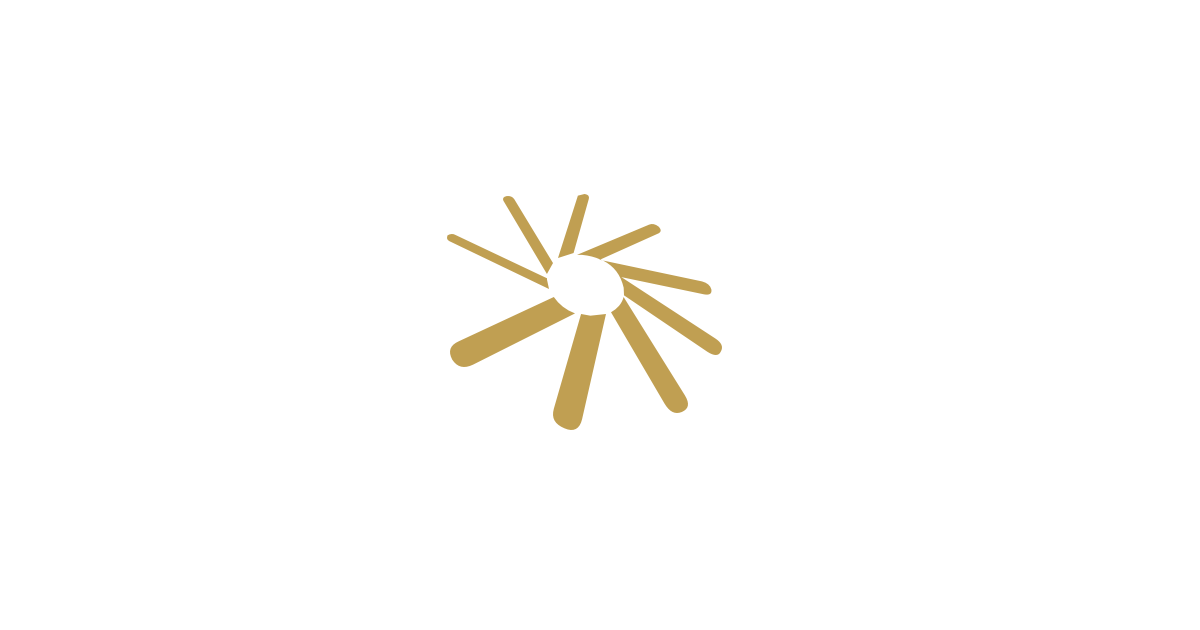
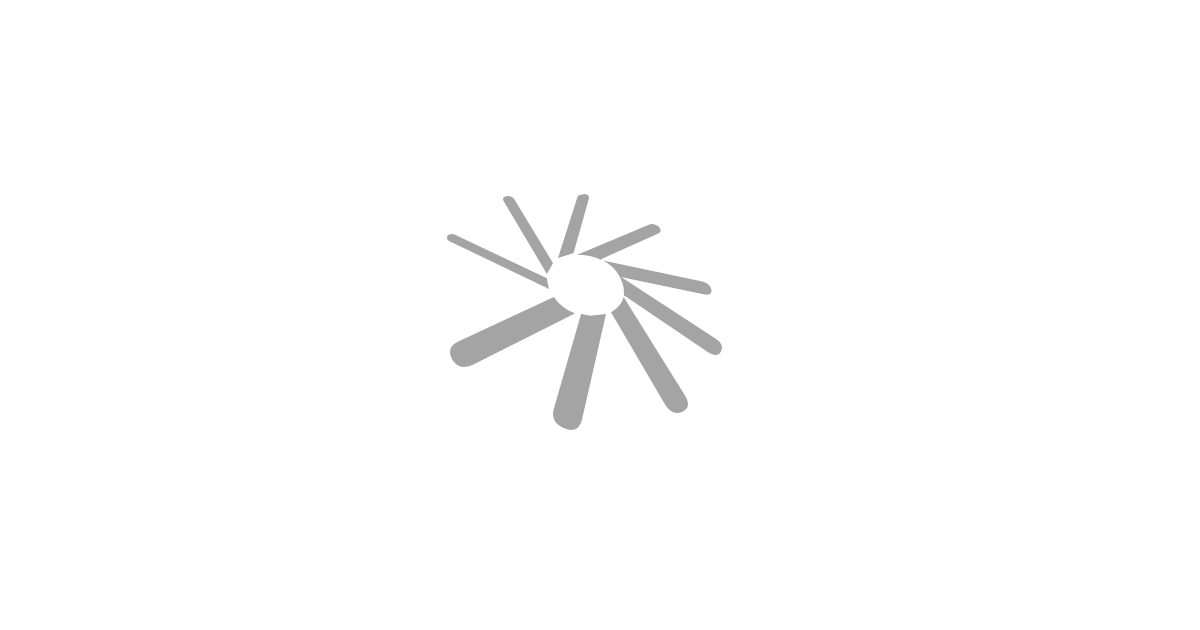
YouTube

Changed region(s): [[0.37, 0.3016, 0.6167, 0.6937]]

diff --git a/gatsby/src/markdown/diving/cirkewwa.md b/gatsby/src/markdown/diving/cirkewwa.md
@@ -5,22 +5,21 @@ category: "diving"
 title: "Cirkewwa"
 slug: "/diving/cirkewwa"
 description: "There's something for everyone at Cirkewwa"
-categories: "Cave, Reef, Wall, Wreck, freedive, scuba"
-icon: "diving"
+keywords: "Snorkelling, Cave, Reef, Wall, Wreck, freedive, scuba"
+icon: "map"
 image: "/jpg/diving/cirkewwa.jpg"
 lat: 35.988681939025646
 lng: 14.32732412782047
 website: "https://maltadives.com/sites/cirkewwa/en"
-phone: "+"
+youtube: "0xTBdrRqeWA"
 ---
 Cirkewwa is one of the most popular scuba diving sites on the Maltese islands for good reason. It is located on the north west coast of Malta next to the Gozo ferry
 
-<iframe width="100%" height="315" src="https://www.youtube.com/embed/0xTBdrRqeWA" title="YouTube video player" frameborder="0" allow="accelerometer; autoplay; clipboard-write; encrypted-media; gyroscope; picture-in-picture; web-share" allowfullscreen></iframe>
+### Scuba Diving 
 
-### Scuba Diving
-Cave & Reef & Wall & Wreck  
-Depth from 5 - 30+ meters  
-Easy Shore Access
+- Cave & Reef & Wall & Wreck  
+- Depth from 5 - 30+ meters  
+- Easy Shore Access
 
 There is something for everyone; easy shallow training area (Susie's Pool) and Madonna statue, two deep wrecks (Patrol Boat P29 and Tugboat Rozi), two beautiful natural arches (Right/Green Arch and Left/White Arch), and wall reef with many swimthrough tunnels/caves. The wrecks P29 and Rozi were scuttled for diving attraction. The maximum depth of these wrecks is 34-36 meters 
 
@@ -34,12 +33,12 @@ Patrol Boat P29 (Boltenhagen) is a popular wreck dive in Malta. P29 was 52m patr
 
 Tugboat Rozi is a popular wreck dive in Malta. Rozi was 35m tug boat that was scuttled in 1992. The wreck rests off shore from Cirkewwa with max depth 34m.
 
-### Arch
+### The Arch
 
 Cirkewwa Arch dive site is a beautiful natural underwater archway in Malta, 12 metres below the surface and 8 metres above the seabed.
 
 [maltadives.com](https://maltadives.com/sites/cirkewwa/en)
 
-### Free Diving
+### Free Diving & Snorkelling
 
 It's also a beautiful spot for Freediving too and if you're only needing mask, snorkel & fins... you can get there on a motorbike. Sick.

diff --git a/gatsby/src/markdown/home.md b/gatsby/src/markdown/home.md
@@ -7,15 +7,18 @@ category: "goldlabel"
 title: "Home"
 description: "Goldlabel Open Source"
 icon: "home"
-image: "/png/mapbox.png"
+image: "/png/goldlabel.png"
 keywords: "JavaScript, Gatsby, React, Progressive Web App, MUI"
 email: "ai@listingslab.com"
-website: "https://listingslab.com/goldlabel"
+website: "https://github.com/listingslab-software/open-source"
 facebook: "https://www.facebook.com/listingslabspage"
+phone: "+356-9964-2755"
 ---
+### [About Goldlabel](/goldlabel)
 
-## [About Goldlabel](/goldlabel)
+- [Tings](/goldlabel/tings/)
+- [Flash](/goldlabel/flash/)
 
-## A modern alternative to WordPress
+### [Malta Diving](/diving)
 
-This technology is Open Source & free to use. You don’t have to pay for it. Which is how it should be. Should you do us the honour of trying it out and deciding that it’s an approach which suits you, then there are pathways for you to do that without suddenly being charged an arm and a leg
+Goldlabel Open Source is a modern alternative to WordPress. It's Open Source & free. You don’t have to pay for it. Which is how it should be. Should you do us the honour of trying it out and deciding that it’s an approach which suits you, then there are pathways for you to do that without suddenly being charged an arm and a leg

diff --git a/gatsby/src/markdown/diving/blue-hole.md b/gatsby/src/markdown/diving/blue-hole.md
@@ -1,17 +1,22 @@
 ---
-order: 265
+order: 65
 category: "diving"
 featured: true
 title: "The Blue Hole"
-description: "Natural rock formation"
+description: "Dwerja"
 slug: "/diving/blue-hole"
-keywords: "scuba, cave"
+keywords: "scuba, cave, swimming, snorkeling, freediving"
 icon: "diving"
 image: "/jpg/diving/bluehole.jpg"
 lat: 36.05793438685066
 lng: 14.199126860089175
-website: "https://maltadives.com/sites/"
+website: "https://maltadives.com/sites/bluehole-dwejra/en"
+youtube: "ltXx8dVXFsI"
 ---
+
+The Blue Hole in Dwerja is probably the most famous scuba dive site in Malta, and one of the most beautiful dives of the Maltese Islands. This is nice place for swimming, snorkeling, and freediving too.
+
+
 This natural rock formation resembling an upright tube and carved out over thousands of years by wind and wave power, offers a sheltered entry for this dive through a huge archway starting at 6 m stretching right down to the bottom at 15m
 
 A large cave at the bottom of the hole, exactly opposite the archway, is also worth exploring, offering spectacular scenery from the back

diff --git a/gatsby/src/markdown/diving/santa-marija-caves.md b/gatsby/src/markdown/diving/santa-marija-caves.md
@@ -1,5 +1,5 @@
 ---
-order: 200
+order: 20
 category: "diving"
 title: "Santa Marija Caves"
 description: "Comino, accessible only by boat"
@@ -9,5 +9,6 @@ icon: "diving"
 image: "/jpg/diving/santa-marija-caves.jpg"
 lat: 36.01820469996262
 lng: 14.340635040889875
+youtube: "2qSq7Lxq1dU"
 ---
 Santa Marija Caves is a popular diving spot in Comino, accessible only by boat. There are about ten caves divers can explore. There’s something different about every cave, so you’re in for a unique experience. On the vertical walls, you can see many light reflections. There’s a lot of marine life here, like octopuses, crabs, lobsters, red mullets, and moray eels. These caves also make a great photo and video spots. The caves are shallow, so divers of all levels can dive here.

diff --git a/gatsby/src/markdown/diving/rozi.md b/gatsby/src/markdown/diving/rozi.md
@@ -9,6 +9,7 @@ image: "/jpg/diving/rozi.jpg"
 order: 110
 lat: 35.989207091077496
 lng: 14.327206013356422
+youtube: "FlRjPGh81H8"
 ---
 The Rozi is one of the two wrecks in Cirkewwa on the northwest side of Malta, and one of the most popular dive sites in the Maltese islands. Rozi was a former tugboat that operated in Grand Harbour of Valletta. She was scuttled in 1992 as an underwater tourist attraction for submarine tours, and also became an artificial reef for scuba divers. Tugboat Rozi wreck is easily dived from the shore, and is located close to Patrol Boat P29 wreck.
 

diff --git a/gatsby/src/markdown/goldlabel/lingua.md b/gatsby/src/markdown/goldlabel/lingua.md
@@ -8,7 +8,7 @@ title: "Lingua"
 description: "Might as well be in Chinese, right?"
 keywords: "Localisation, language, Lingua, translation"
 icon: "lingua"
-image: "/png/town.png"
+image: "/png/goldlabel.png"
 ---
 Lingua is our multi language translation package. Localisation is not something you want to simply bolt onto a website at the end. Users will do that themselves if they cared enough about reading anything you have written. Which they don't. Lingua makes the user feel the app is aimed for them. It's a trust thing
 

diff --git a/gatsby/src/markdown/goldlabel/_goldlabel.md b/gatsby/src/markdown/goldlabel/_goldlabel.md
@@ -1,12 +1,12 @@
 ---
 order: 10
 slug: "/goldlabel"
-title: "Goldlabel"
+title: "Features"
 description: "An option if you're thinking of updating a tired old WordPress site"
 cover: false
 category: "goldlabel"
 icon: "goldlabelOutlined"
-image: "/png/town.png"
+image: "/png/goldlabel.png"
 keywords: "goldlabel, product, pwa, Static Site Generation, SSR, free"
 ---
 Goldlabel software is an easy to implement framework that can take your slow old wordpress site and make it not only super fast, but rank better in Google

diff --git a/gatsby/src/markdown/diving/_diving.md b/gatsby/src/markdown/diving/_diving.md
@@ -5,7 +5,7 @@ category: "diving"
 title: "Diving"
 description: "Natural volcanic rock formations carved out over 10's of thousands of years"
 slug: "/diving"
-icon: "diving"
+icon: "youtube"
 image: "/jpg/diving/home.jpg"
 keywords: "diving, malta, gozo, holiday"
 youtube: "PfGnWVLg5iU"
